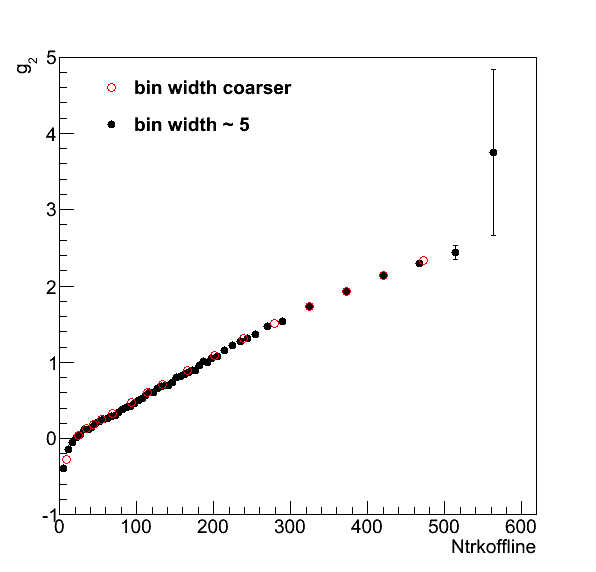
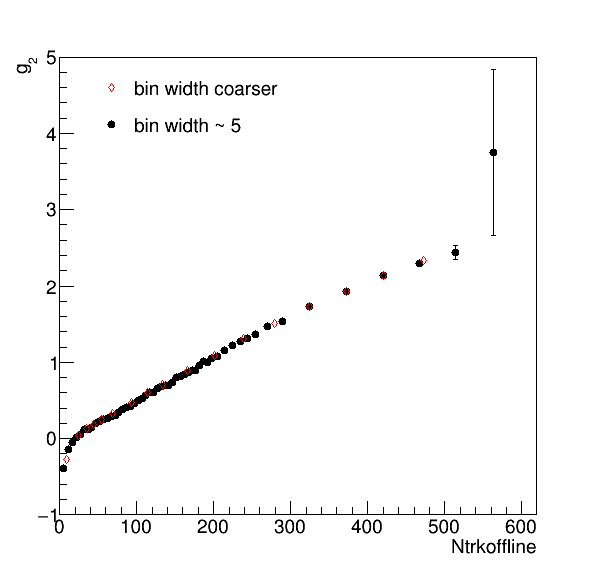
qfit PbPb

diff --git a/flow/qfit/PbPb2011MB/finalbins5/plotallbins.C b/flow/qfit/PbPb2011MB/finalbins5/plotallbins.C
@@ -1,15 +1,26 @@
 #include "par.h"
 void plotallbins(){
+    
+    const int nbin24 = 15;
+    const double avgtrkbin[nbin24]={34.34,44.37,54.39,69.11,89.21,109.3,134.1,166.5,201.6,229.4,249.4,269.4,289.4,309.4,334.3};
+    const double V24[nbin24]={0.0398,0.05425,0.05399,0.05996,0.0641,0.06684,0.07102,0.07426,0.07692,0.07842,0.08031,0.08057,0.08251,0.08261,0.08355};
+    const double V24err[nbin24]={0.01727,0.005501,0.004521,0.001912,0.001923,0.002005,0.002131,0.002228,0.002308,0.002353,0.002409,0.002417,0.002475,0.002478,0.002507};
+    const int nbin22 = 18;
+    const double avgtrkbin22[nbin22]={6.967,14.22,24.3,34.34,44.37,54.39,69.1,89.21,109.3,134.1,166.5,201.6,229.4,249.4,269.4,289.4,309.4,334.3};
+    const double V22[nbin22]={0.04862,0.05233,0.05476,0.05762,0.06139,0.06476,0.07128,0.07666,0.08179,0.08609,0.09026,0.09364,0.09594,0.09672,0.09802,0.09909,0.0999,0.1005};
+    const double V22err[nbin22]={0.004403,0.001615,0.001643,0.001729,0.001842,0.001943,0.002138,0.0023,0.002454,0.002583,0.002708,0.002809,0.002978,0.002902,0.002941,0.002973,0.002997,0.003015};
+
     const int nnonf = 2;
     int fixv2=0;
     double avgmult[nnonf][nbin],avgtrk[nnonf][nbin], v2[nnonf][nbin],v2err[nnonf][nbin],g2[nnonf][nbin],g2err[nnonf][nbin];
     for(int ibin=0;ibin<nbin;ibin++){
         for(int inonf=0;inonf<nnonf;inonf++){
         TFile *f = TFile::Open(Form("qfitV.root"));
+        TVectorD *r;
         if(!inonf)
-        TVectorD *r = (TVectorD*)f->Get(Form("r_%d_%d",ibin,fixv2));
+        r = (TVectorD*)f->Get(Form("r_%d_%d",ibin,fixv2));
         else
-        TVectorD *r = (TVectorD*)f->Get(Form("rnonf_%d_%d",ibin,fixv2));
+        r = (TVectorD*)f->Get(Form("rnonf_%d_%d",ibin,fixv2));
         g2[inonf][ibin]=(*r)[0];
         g2err[inonf][ibin]=(*r)[1];
         v2[inonf][ibin]=TMath::Abs((*r)[2]);
@@ -28,10 +39,11 @@ void plotallbins(){
     for(int ibin=0;ibin<nbinsf;ibin++){
         for(int inonf=0;inonf<nnonf;inonf++){
         TFile *f = TFile::Open(Form("../qfitV.root"));
+        TVectorD *r;
         if(!inonf)
-        TVectorD *r = (TVectorD*)f->Get(Form("r_%d_%d",ibin,fixv2));
+        r = (TVectorD*)f->Get(Form("r_%d_%d",ibin,fixv2));
         else
-        TVectorD *r = (TVectorD*)f->Get(Form("rnonf_%d_%d",ibin,fixv2));
+        r = (TVectorD*)f->Get(Form("rnonf_%d_%d",ibin,fixv2));
         g2_[inonf][ibin]=(*r)[0];
         g2err_[inonf][ibin]=(*r)[1];
         v2_[inonf][ibin]=TMath::Abs((*r)[2]);
@@ -40,6 +52,8 @@ void plotallbins(){
         avgtrk_[inonf][ibin]=(*r)[5];
         }
     }
+    TGraphErrors *grv24=new TGraphErrors(nbin24,avgtrkbin,V24,0,V24err);
+    TGraphErrors *grv22=new TGraphErrors(nbin22,avgtrkbin22,V22,0,V22err);
     TGraphErrors *grv = new TGraphErrors(nbinsf,avgtrk_[0],v2_[0],0,v2err_[0]);
     TGraphErrors *grvnonf = new TGraphErrors(nbinsf,avgtrk_[0],v2_[1],0,v2err_[1]);
     TGraphErrors *grg = new TGraphErrors(nbinsf,avgtrk_[0],g2_[0],0,g2err_[0]);
@@ -49,6 +63,7 @@ void plotallbins(){
     tl->SetTextSize(0.035);
     tl->SetBorderSize(0);
     tl->SetFillColor(0);
+    TLegend *tl1 = new TLegend(*tl);
 
     TCanvas *c1 = new TCanvas("c1","c1",600,600);
     grvfinal->SetTitle("");
@@ -60,13 +75,23 @@ void plotallbins(){
 //    grvnonf->SetMarkerStyle(24);
 //    grvnonf->SetMarkerColor(2);
 //    grvnonf->SetLineColor(2);
-    grv->SetMarkerStyle(24);
+    grv->SetMarkerStyle(27);
     grv->SetMarkerColor(2);
     grv->SetLineColor(2);
+    grv24->SetMarkerStyle(24);
+    grv24->SetMarkerColor(2);
+    grv24->SetLineColor(2);
+    grv22->SetMarkerStyle(29);
+    grv22->SetMarkerColor(8);
+    grv22->SetLineColor(8);
     tl->AddEntry(grv,"bin width coarser","p");
     tl->AddEntry(grvfinal,"bin width ~ 5","p");
+    tl->AddEntry(grv24,"v_{2}{4}","p");
+    tl->AddEntry(grv22,"v_{2}{2}","p");
     grvfinal->Draw("AP");
     grv->Draw("Psame");
+    grv24->Draw("Psame");
+    grv22->Draw("Psame");
     tl->Draw("same");
 
     TCanvas *c2 = new TCanvas("c2","c2",600,600);
@@ -79,12 +104,14 @@ void plotallbins(){
 //    grgnonf->SetMarkerStyle(24);
 //    grgnonf->SetMarkerColor(2);
 //    grgnonf->SetLineColor(2);
-    grg->SetMarkerStyle(24);
+    grg->SetMarkerStyle(27);
     grg->SetMarkerColor(2);
     grg->SetLineColor(2);
     grgfinal->Draw("AP");
     grg->Draw("Psame");
-    tl->Draw("same");
+    tl1->AddEntry(grv,"bin width coarser","p");
+    tl1->AddEntry(grvfinal,"bin width ~ 5","p");
+    tl1->Draw("same");
 
     c1->Print("v2vsNtrk.png");
     c2->Print("g2vsNtrk.png");

diff --git a/flow/qfit/PbPb2011MB/finalbins5/plotqfit.C b/flow/qfit/PbPb2011MB/finalbins5/plotqfit.C
@@ -11,8 +11,8 @@ int xtheta=0;
     gStyle->SetOptFit(1111);
 TFile *f = TFile::Open("mergedV_Sum.root");
 TFile *fout = TFile::Open("qfitV.root","Update");
-TVectorD *vecDavgmult = f->Get(Form("avgmultall"));
-TVectorD *vecDavgtrk = f->Get(Form("avgtrk"));
+TVectorD *vecDavgmult = (TVectorD*)f->Get(Form("avgmultall"));
+TVectorD *vecDavgtrk = (TVectorD*)f->Get(Form("avgtrk"));
 double *avgmult = vecDavgmult->GetMatrixArray();
 double *avgtrk = vecDavgtrk->GetMatrixArray();
 TLatex *t= new TLatex();
@@ -25,7 +25,8 @@ TH1D* hqx = (TH1D*)f->Get(Form("D_%d/hqx",ibin));
 TH1D* hqy = (TH1D*)f->Get(Form("D_%d/hqy",ibin));
 TH1D* hq2 = (TH1D*)f->Get(Form("D_%d/hq2",ibin));
 TH1D* hq2nonf = (TH1D*)f->Get(Form("D_%d/hq2nonf",ibin));
-for(int k=0;k<nbin24;k++){
+int k;
+for(k=0;k<nbin24;k++){
     if(avgtrk[ibin]>avgtrkbin[k]&& avgtrk[ibin]<=avgtrkbin[k+1])
         break;
 }
@@ -40,8 +41,8 @@ for(int k=0;k<nbin24;k++){
         //normalizeByBinWidth(hqy);
         hq2->Scale(1./hq2->Integral(0,-1,"width"));
         hq2nonf->Scale(1./hq2nonf->Integral(0,-1,"width"));
-ffit = new TF1(Form("ffit"),"1./(0.5*(1+[0]))*TMath::Exp(-([1]*[1]*[2]+x*x)/(1+[0]))*TMath::BesselI0(x*[1]*TMath::Sqrt([2])/(0.5*(1+[0])))",0,10);
-f1fit = new TF1(Form("f1fit"),"x/(0.5*(1+[0]))*TMath::Exp(-([1]*[1]*[2]+x*x)/(1+[0]))*TMath::BesselI0(x*[1]*TMath::Sqrt([2])/(0.5*(1+[0])))",0,10);
+TF1 *ffit = new TF1(Form("ffit"),"1./(0.5*(1+[0]))*TMath::Exp(-([1]*[1]*[2]+x*x)/(1+[0]))*TMath::BesselI0(x*[1]*TMath::Sqrt([2])/(0.5*(1+[0])))",0,10);
+TF1* f1fit = new TF1(Form("f1fit"),"x/(0.5*(1+[0]))*TMath::Exp(-([1]*[1]*[2]+x*x)/(1+[0]))*TMath::BesselI0(x*[1]*TMath::Sqrt([2])/(0.5*(1+[0])))",0,10);
 //ffit = new TF1(Form("ffit"),"1./([0])*TMath::Exp(-([1]*[1]*[2]+x*x)/(2*[0]))*TMath::BesselI0(x*[1]*TMath::Sqrt([2])/([0]))",0,10);
 //f1fit = new TF1(Form("f1fit"),"x/([0])*TMath::Exp(-([1]*[1]*[2]+x*x)/(2*[0]))*TMath::BesselI0(x*[1]*TMath::Sqrt([2])/([0]))",0,10);
 ffit->SetParNames("g2","v2","M");
@@ -184,8 +185,8 @@ hq2nonf_cp->Draw("Psame");
 t->DrawLatex(0.5,0.2,Form("N_{trk}^{offline} = %.2f", avgtrk[ibin]*2));
 
 fout->cd();
-vecr.Write(Form("r_%d_%d",ibin,fixv2));
-vecrnonf.Write(Form("rnonf_%d_%d",ibin,fixv2));
+vecr.Write(Form("r_%d_%d",ibin,fixv2),TObject::kOverwrite);
+vecrnonf.Write(Form("rnonf_%d_%d",ibin,fixv2),TObject::kOverwrite);
 }
 /*
 c2->Print("hqx_fit.png");

diff --git a/flow/qfit/tracknormcpt03to6/finalbins5/plotallbins.C b/flow/qfit/tracknormcpt03to6/finalbins5/plotallbins.C
@@ -7,7 +7,7 @@ void plotallbins(){
     const double avgtrkbin22[nbin22]={6.917,14.37,24.41,34.39,44.36,54.33,68.63,88.39,108.2,131.3,162.1,196.6,227.5,247.2,267.1,287,306.8,328.6};
     const double V22[nbin22]={0.05367,0.05428,0.05379,0.05501,0.05651,0.05814,0.06038,0.0629,0.06421,0.06633,0.06777,0.06887,0.06927,0.0697,0.06977,0.06896,0.06706,0.06621};
  
- const int nbin22 = 18;   const double V22err[nbin22]={0.002093,0.002117,0.002098,0.002145,0.002204,0.002267,0.002355,0.002453,0.002504,0.002587,0.002643,0.002686,0.00381,0.003833,0.005163,0.005103,0.004962,0.0049};
+   const double V22err[nbin22]={0.002093,0.002117,0.002098,0.002145,0.002204,0.002267,0.002355,0.002453,0.002504,0.002587,0.002643,0.002686,0.00381,0.003833,0.005163,0.005103,0.004962,0.0049};
     const int ntot = 5;
     const int nnonf = 2;
     TString dir[ntot]={"M150120","M185150","M220185","M260220","M300260"};
